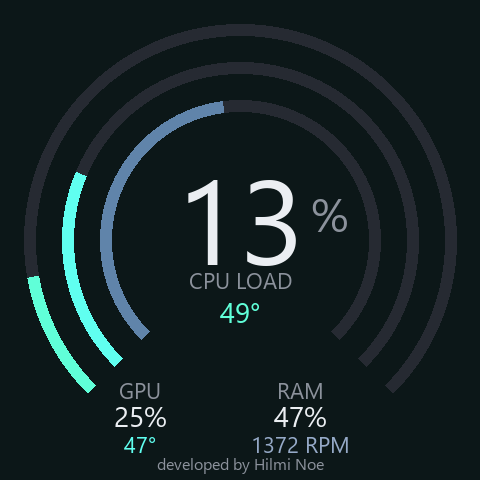
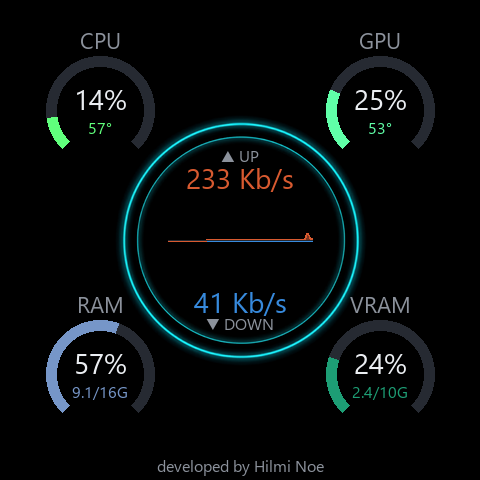
feat: ağ throughput + sistem göstergeli net modu (Canva HUD tasarımı)
- net modu: merkezde ~60 Hz ağ throughput ayna-grafiği, dört köşede
  CPU/GPU/RAM/VRAM mini göstergeleri (Canva üretimi dairesel HUD arka planı).
- sensors: Reading'e VRAM ve RAM detayı (GB) eklendi; nvidia-smi memory
  sorgusu + LHM VRAM fallback.
- netflow.py: psutil sayaçlarından anlık bayt/sn örnekleyici.

Changed region(s): [[0.0312, 0.0312, 0.9688, 1.0]]

diff --git a/main.py b/main.py
@@ -16,6 +16,7 @@ import colorsys
 import io
 import logging
 import math
+import os
 import time
 
 from PIL import Image, ImageDraw, ImageFont
@@ -252,6 +253,194 @@ class SpectrumRenderer:
         return img
 
 
+_HUD_BG = os.path.join(os.path.dirname(os.path.abspath(__file__)),
+                       "assets", "hud_bg.png")
+
+
+class NetRenderer:
+    """Canva'da üretilmiş dairesel HUD arka planı üstüne canlı veri bindirir:
+    merkezde kayan ağ throughput ayna-grafiği (indirme aşağı, yükleme yukarı),
+    dört köşede CPU / GPU / RAM / VRAM mini göstergeleri."""
+
+    # Merkez grafik kutusu (köşe göstergelerinin arasında kalır).
+    GX0, GX1 = 168, 312
+    GY0, GY1 = 200, 280
+    N = 120                  # geçmiş örnek sayısı (yatay çözünürlük)
+    MIN_SCALE = 1_000_000.0  # otoskala tabanı: ~1 MB/s (8 Mb/s)
+
+    def __init__(self) -> None:
+        self.down = [0.0] * self.N
+        self.up = [0.0] * self.N
+        self._peak = self.MIN_SCALE
+
+        # canlı sistem değerleri (yumuşatılmış)
+        self.cpu_load = 0.0
+        self.cpu_temp = 40.0
+        self.gpu_load = 0.0
+        self.gpu_temp = 40.0
+        self.ram_pct = 0.0
+        self.vram_pct = 0.0
+        self.ram_used = 0.0
+        self.ram_total = 0.0
+        self.vram_used = 0.0
+        self.vram_total = 0.0
+
+        try:
+            self._bg = Image.open(_HUD_BG).convert("RGB")
+            if self._bg.size != (SIZE, SIZE):
+                self._bg = self._bg.resize((SIZE, SIZE))
+        except Exception as e:
+            log.warning("HUD arka planı yüklenemedi (%s) — düz zemin.", e)
+            self._bg = Image.new("RGB", (SIZE, SIZE), BG)
+
+    def push(self, down_bps: float, up_bps: float) -> None:
+        self.down.append(down_bps)
+        self.down.pop(0)
+        self.up.append(up_bps)
+        self.up.pop(0)
+
+    def update_stats(self, r: Reading, dt: float) -> None:
+        rate = min(1.0, dt * 6.0)
+        if r.cpu_load is not None:
+            self.cpu_load = _smooth(self.cpu_load, r.cpu_load, rate)
+        if r.cpu_temp is not None:
+            self.cpu_temp = _smooth(self.cpu_temp, r.cpu_temp, rate)
+        if r.gpu_load is not None:
+            self.gpu_load = _smooth(self.gpu_load, r.gpu_load, rate)
+        if r.gpu_temp is not None:
+            self.gpu_temp = _smooth(self.gpu_temp, r.gpu_temp, rate)
+        if r.ram_load is not None:
+            self.ram_pct = _smooth(self.ram_pct, r.ram_load, rate)
+        if r.ram_used_gb is not None:
+            self.ram_used, self.ram_total = r.ram_used_gb, r.ram_total_gb or 0.0
+        if r.vram_used_mb is not None and r.vram_total_mb:
+            self.vram_used = r.vram_used_mb / 1024.0
+            self.vram_total = r.vram_total_mb / 1024.0
+            self.vram_pct = _smooth(self.vram_pct,
+                                    100.0 * r.vram_used_mb / r.vram_total_mb, rate)
+
+    @staticmethod
+    def _fmt(bps: float) -> str:
+        bits = bps * 8.0
+        if bits >= 1e9:
+            return f"{bits / 1e9:.2f} Gb/s"
+        if bits >= 1e6:
+            return f"{bits / 1e6:.1f} Mb/s"
+        if bits >= 1e3:
+            return f"{bits / 1e3:.0f} Kb/s"
+        return f"{bits:.0f} b/s"
+
+    def _gauge(self, d, cx, cy, frac, color, value, sub, label) -> None:
+        r = 54
+        box = [cx - r, cy - r, cx + r, cy + r]
+        d.arc(box, 135, 135 + 270, fill=RING_BG, width=11)
+        frac = max(0.0, min(1.0, frac))
+        if frac > 0:
+            d.arc(box, 135, 135 + 270 * frac, fill=color, width=11)
+        _centered_at(d, cx, cy - r - 16, label, F_TINY, MUTED)
+        _centered_at(d, cx, cy - 11, value, F_SMALL, TEXT)
+        _centered_at(d, cx, cy + 18, sub, F_MICRO, color)
+
+    def draw(self, t: float) -> Image.Image:
+        img = self._bg.copy()
+        d = ImageDraw.Draw(img)
+
+        mid = (self.GY0 + self.GY1) // 2
+        half = (self.GY1 - self.GY0) / 2.0
+        target = max(self.MIN_SCALE, max(self.down), max(self.up))
+        self._peak += (target - self._peak) * 0.10
+        peak = max(self.MIN_SCALE, self._peak)
+
+        def x_of(i):
+            return self.GX0 + (self.GX1 - self.GX0) * i / (self.N - 1)
+
+        down_pts = [(self.GX0, mid)]
+        up_pts = [(self.GX0, mid)]
+        for i in range(self.N):
+            x = x_of(i)
+            down_pts.append((x, mid + min(1.0, self.down[i] / peak) * half))
+            up_pts.append((x, mid - min(1.0, self.up[i] / peak) * half))
+        down_pts.append((self.GX1, mid))
+        up_pts.append((self.GX1, mid))
+
+        d.polygon(down_pts, fill=_blend(BG, BLUE, 0.55))
+        d.polygon(up_pts, fill=_blend(BG, CORAL, 0.55))
+        d.line(down_pts[1:-1], fill=BLUE, width=2)
+        d.line(up_pts[1:-1], fill=CORAL, width=2)
+        d.line([(self.GX0, mid), (self.GX1, mid)], fill=RING_BG, width=1)
+
+        # köşe göstergeleri: kare panelin gerçek köşelerine yakın.
+        # CPU / GPU üst, RAM / VRAM alt.
+        self._gauge(d, 100, 110, self.cpu_load / 100, _temp_color(self.cpu_temp),
+                    f"{self.cpu_load:.0f}%", f"{self.cpu_temp:.0f}°", "CPU")
+        self._gauge(d, 380, 110, self.gpu_load / 100, _temp_color(self.gpu_temp),
+                    f"{self.gpu_load:.0f}%", f"{self.gpu_temp:.0f}°", "GPU")
+        self._gauge(d, 100, 374, self.ram_pct / 100, (118, 150, 200),
+                    f"{self.ram_pct:.0f}%",
+                    f"{self.ram_used:.1f}/{self.ram_total:.0f}G", "RAM")
+        self._gauge(d, 380, 374, self.vram_pct / 100, TEAL,
+                    f"{self.vram_pct:.0f}%",
+                    f"{self.vram_used:.1f}/{self.vram_total:.0f}G", "VRAM")
+
+        # ağ okumaları: yükleme üst-orta, indirme alt-orta
+        _centered_at(d, CENTER, mid - half - 22, self._fmt(self.up[-1]),
+                     F_SMALL, CORAL)
+        _centered_at(d, CENTER, mid - half - 44, "▲ UP", F_MICRO, MUTED)
+        _centered_at(d, CENTER, mid + half + 22, self._fmt(self.down[-1]),
+                     F_SMALL, BLUE)
+        _centered_at(d, CENTER, mid + half + 44, "▼ DOWN", F_MICRO, MUTED)
+        _centered_at(d, CENTER, SIZE - 14, "developed by Hilmi Noe", F_MICRO, MUTED)
+        return img
+
+
+def run_net(fps: int) -> None:
+    from trcc_lcd import TrccLcd, encode_rgb565
+    from netflow import NetFlow
+
+    lcd = TrccLcd()
+    _open_with_retry(lcd)
+    log.info("Ağ modu — ekran %dx%d %s", lcd.width, lcd.height,
+             "JPEG" if lcd.jpeg else "RGB565")
+    flow = NetFlow()
+    sensors = Sensors()
+    rend = NetRenderer()
+
+    frame_dt = 1.0 / fps
+    last = time.perf_counter()
+    start = last
+    last_sensor = 0.0
+    reading = sensors.read()
+    try:
+        while True:
+            now = time.perf_counter()
+            dt = now - last
+            last = now
+
+            if now - last_sensor >= 1.0:     # sistem sensörleri ~1 Hz
+                reading = sensors.read()
+                last_sensor = now
+
+            down, up = flow.poll()           # ağ ~fps Hz (her frame taze)
+            rend.push(down, up)
+            rend.update_stats(reading, dt)
+            img = rend.draw(now - start)
+
+            if lcd.jpeg:
+                buf = io.BytesIO()
+                img.save(buf, format="JPEG", quality=88)
+                lcd.send(buf.getvalue())
+            else:
+                lcd.send(encode_rgb565(img))
+
+            sleep = frame_dt - (time.perf_counter() - now)
+            if sleep > 0:
+                time.sleep(sleep)
+    except KeyboardInterrupt:
+        log.info("Durduruluyor.")
+    finally:
+        lcd.close()
+
+
 def run_spectrum(fps: int) -> None:
     from audio import AudioSpectrum
     from trcc_lcd import TrccLcd, encode_rgb565
@@ -367,6 +556,34 @@ def run_preview(fps: int, seconds: float, mode: str = "monitor") -> None:
             log.info("preview.png yazıldı (spectrum, %dx%d).", SIZE, SIZE)
         return
 
+    if mode == "net":
+        from netflow import NetFlow
+
+        flow = NetFlow()
+        sensors = Sensors()
+        rend = NetRenderer()
+        start = time.perf_counter()
+        last = start
+        last_sensor = 0.0
+        reading = sensors.read()
+        img = None
+        while time.perf_counter() - start < seconds:
+            now = time.perf_counter()
+            dt = now - last
+            last = now
+            if now - last_sensor >= 1.0:
+                reading = sensors.read()
+                last_sensor = now
+            down, up = flow.poll()
+            rend.push(down, up)
+            rend.update_stats(reading, dt)
+            img = rend.draw(now - start)
+            time.sleep(1.0 / fps)
+        if img is not None:
+            img.save("preview.png")
+            log.info("preview.png yazıldı (net, %dx%d).", SIZE, SIZE)
+        return
+
     sensors = Sensors()
     rend = Renderer()
     start = time.perf_counter()
@@ -393,8 +610,10 @@ def run_preview(fps: int, seconds: float, mode: str = "monitor") -> None:
 def main() -> None:
     ap = argparse.ArgumentParser(description="Thermalright LCD canlı monitör")
     ap.add_argument("--fps", type=int, default=60, help="hedef frame hızı")
-    ap.add_argument("--mode", choices=("monitor", "spectrum"), default="monitor",
-                    help="monitor = sistem göstergesi, spectrum = ses FFT")
+    ap.add_argument("--mode", choices=("monitor", "spectrum", "net"),
+                    default="monitor",
+                    help="monitor = sistem göstergesi, spectrum = ses FFT, "
+                         "net = ağ throughput grafiği")
     ap.add_argument("--preview", action="store_true",
                     help="ekrana göndermeden preview.png üret")
     ap.add_argument("--seconds", type=float, default=3.0,
@@ -405,6 +624,8 @@ def main() -> None:
         run_preview(args.fps, args.seconds, args.mode)
     elif args.mode == "spectrum":
         run_spectrum(args.fps)
+    elif args.mode == "net":
+        run_net(args.fps)
     else:
         run_live(args.fps)
 

diff --git a/sensors.py b/sensors.py
@@ -45,6 +45,10 @@ class Reading:
     gpu_load: float | None = None
     ram_load: float | None = None
     fan_rpm: int | None = None
+    vram_used_mb: float | None = None
+    vram_total_mb: float | None = None
+    ram_used_gb: float | None = None
+    ram_total_gb: float | None = None
 
 
 def _num(text: str) -> float | None:
@@ -127,6 +131,11 @@ class _LHMHttp:
                         r.gpu_load = val
                 elif "RPM" in value and not is_gpu:
                     mb_fans.append((text, val))  # GPU fanlarını atla
+                elif unit == "MB" and is_gpu and cat == "data":
+                    if "memory used" in low and r.vram_used_mb is None:
+                        r.vram_used_mb = val
+                    elif "memory total" in low and r.vram_total_mb is None:
+                        r.vram_total_mb = val
                 return
 
             for c in children:
@@ -153,21 +162,28 @@ class _Nvidia:
         self.exe = shutil.which("nvidia-smi")
 
     def read(self, r: Reading) -> None:
-        if not self.exe or (r.gpu_temp is not None and r.gpu_load is not None):
+        have_all = (r.gpu_temp is not None and r.gpu_load is not None
+                    and r.vram_used_mb is not None and r.vram_total_mb is not None)
+        if not self.exe or have_all:
             return
         try:
             out = subprocess.run(
-                [self.exe, "--query-gpu=temperature.gpu,utilization.gpu",
+                [self.exe,
+                 "--query-gpu=temperature.gpu,utilization.gpu,memory.used,memory.total",
                  "--format=csv,noheader,nounits"],
                 capture_output=True, text=True, timeout=2,
                 creationflags=_NO_WINDOW,
             ).stdout.strip().splitlines()
             if out:
-                t, u = out[0].split(",")
+                t, u, mu, mt = (x.strip() for x in out[0].split(","))
                 if r.gpu_temp is None:
                     r.gpu_temp = float(t)
                 if r.gpu_load is None:
                     r.gpu_load = float(u)
+                if r.vram_used_mb is None:
+                    r.vram_used_mb = float(mu)
+                if r.vram_total_mb is None:
+                    r.vram_total_mb = float(mt)
         except Exception as e:
             log.debug("nvidia-smi hatası: %s", e)
 
@@ -184,6 +200,9 @@ class Sensors:
         self._nv.read(r)
         if r.cpu_load is None:
             r.cpu_load = psutil.cpu_percent(interval=None)
+        vm = psutil.virtual_memory()
         if r.ram_load is None:
-            r.ram_load = psutil.virtual_memory().percent
+            r.ram_load = vm.percent
+        r.ram_used_gb = (vm.total - vm.available) / 1024 ** 3
+        r.ram_total_gb = vm.total / 1024 ** 3
         return r

diff --git a/netflow.py b/netflow.py
@@ -1,0 +1,39 @@
+"""Ağ throughput örnekleyici: psutil sayaçlarından anlık bayt/sn hesaplar.
+
+psutil.net_io_counters() kümülatif bayt verir; iki örnek arası farkı geçen
+süreye bölerek anlık hız (bayt/sn) elde edilir. Render döngüsünde ~60 Hz
+çağrılabilir — sayaç okuma ucuzdur. Windows sayaçları her 16 ms'de
+güncellenmeyebileceğinden ham fark basamaklı gelebilir; değerler hafif EMA
+ile yumuşatılır.
+"""
+from __future__ import annotations
+
+import time
+
+import psutil
+
+
+class NetFlow:
+    def __init__(self, smooth: float = 0.35) -> None:
+        c = psutil.net_io_counters()
+        self._last_recv = c.bytes_recv
+        self._last_sent = c.bytes_sent
+        self._last_t = time.perf_counter()
+        self._down = 0.0   # bayt/sn (yumuşatılmış)
+        self._up = 0.0
+        self._k = smooth
+
+    def poll(self) -> tuple[float, float]:
+        now = time.perf_counter()
+        dt = now - self._last_t
+        if dt <= 0:
+            return self._down, self._up
+        c = psutil.net_io_counters()
+        d = max(0.0, (c.bytes_recv - self._last_recv) / dt)
+        u = max(0.0, (c.bytes_sent - self._last_sent) / dt)
+        self._down += (d - self._down) * self._k
+        self._up += (u - self._up) * self._k
+        self._last_t = now
+        self._last_recv = c.bytes_recv
+        self._last_sent = c.bytes_sent
+        return self._down, self._up

diff --git a/README.md b/README.md
@@ -30,6 +30,8 @@ py main.py --preview                  # ekrana GÖNDERMEDEN preview.png (test)
 py main.py                            # monitor modu: CPU/GPU göstergesi, 60 fps
 py main.py --mode spectrum            # ses FFT spektrumu, 60 fps (WASAPI loopback)
 py main.py --preview --mode spectrum  # ekransız spektrum testi
+py main.py --mode net                 # ağ throughput grafiği, her frame örneklenir
+py main.py --preview --mode net       # ekransız ağ testi
 py main.py --fps 30                   # frame hızını değiştir
 
 # Ölçülen kapasite (gerçek cihaz): USB ~370 fps, render+encode ~462 fps.
